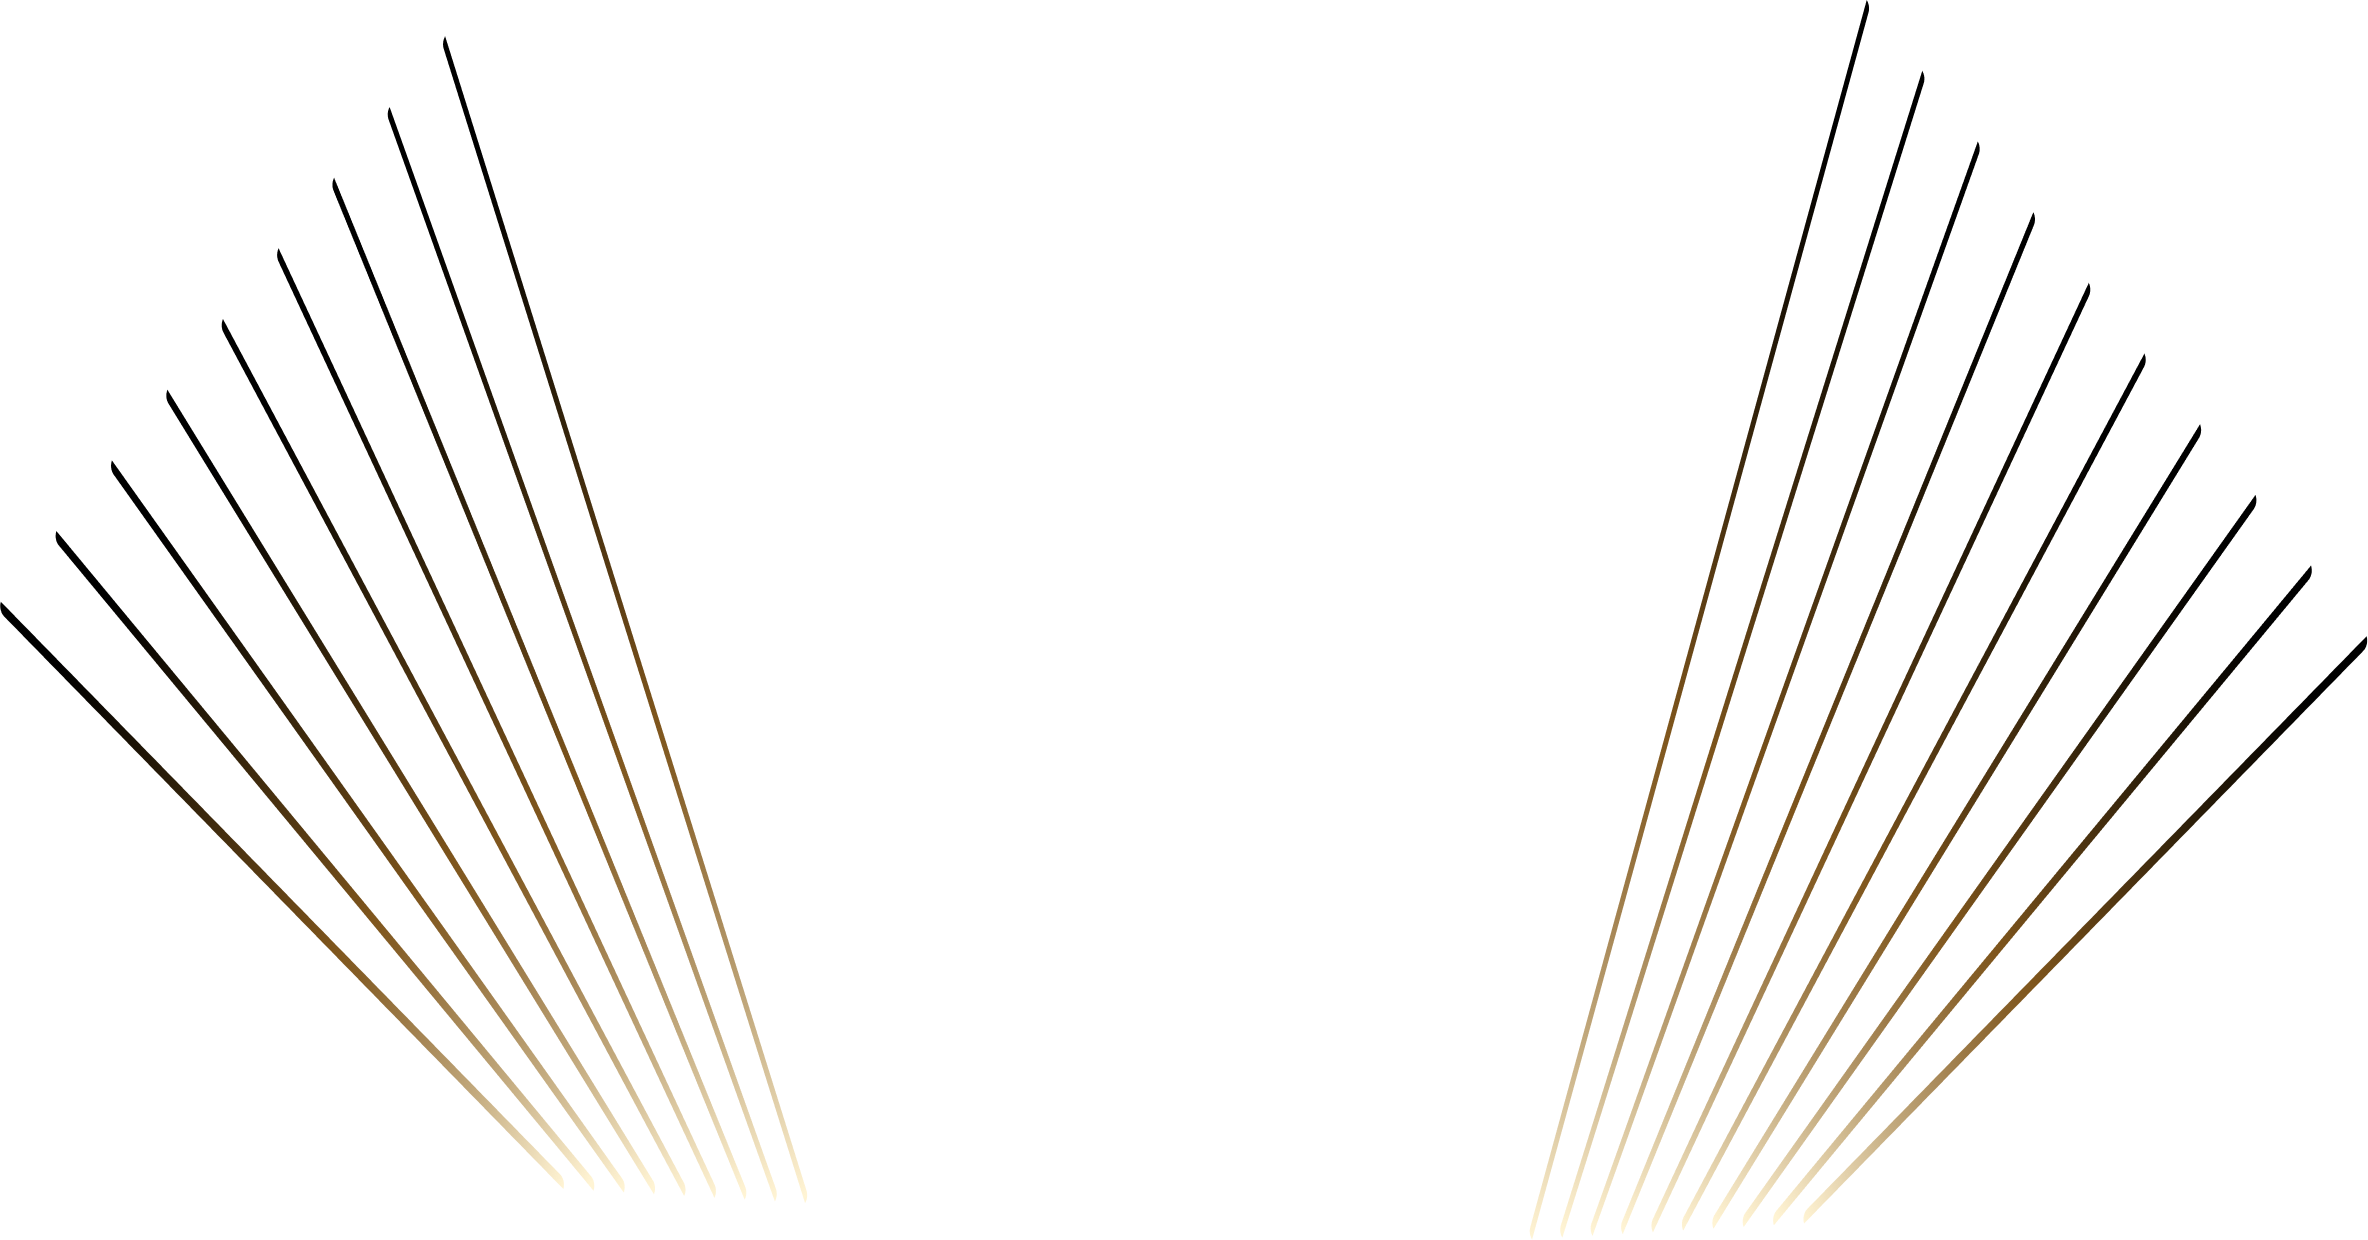
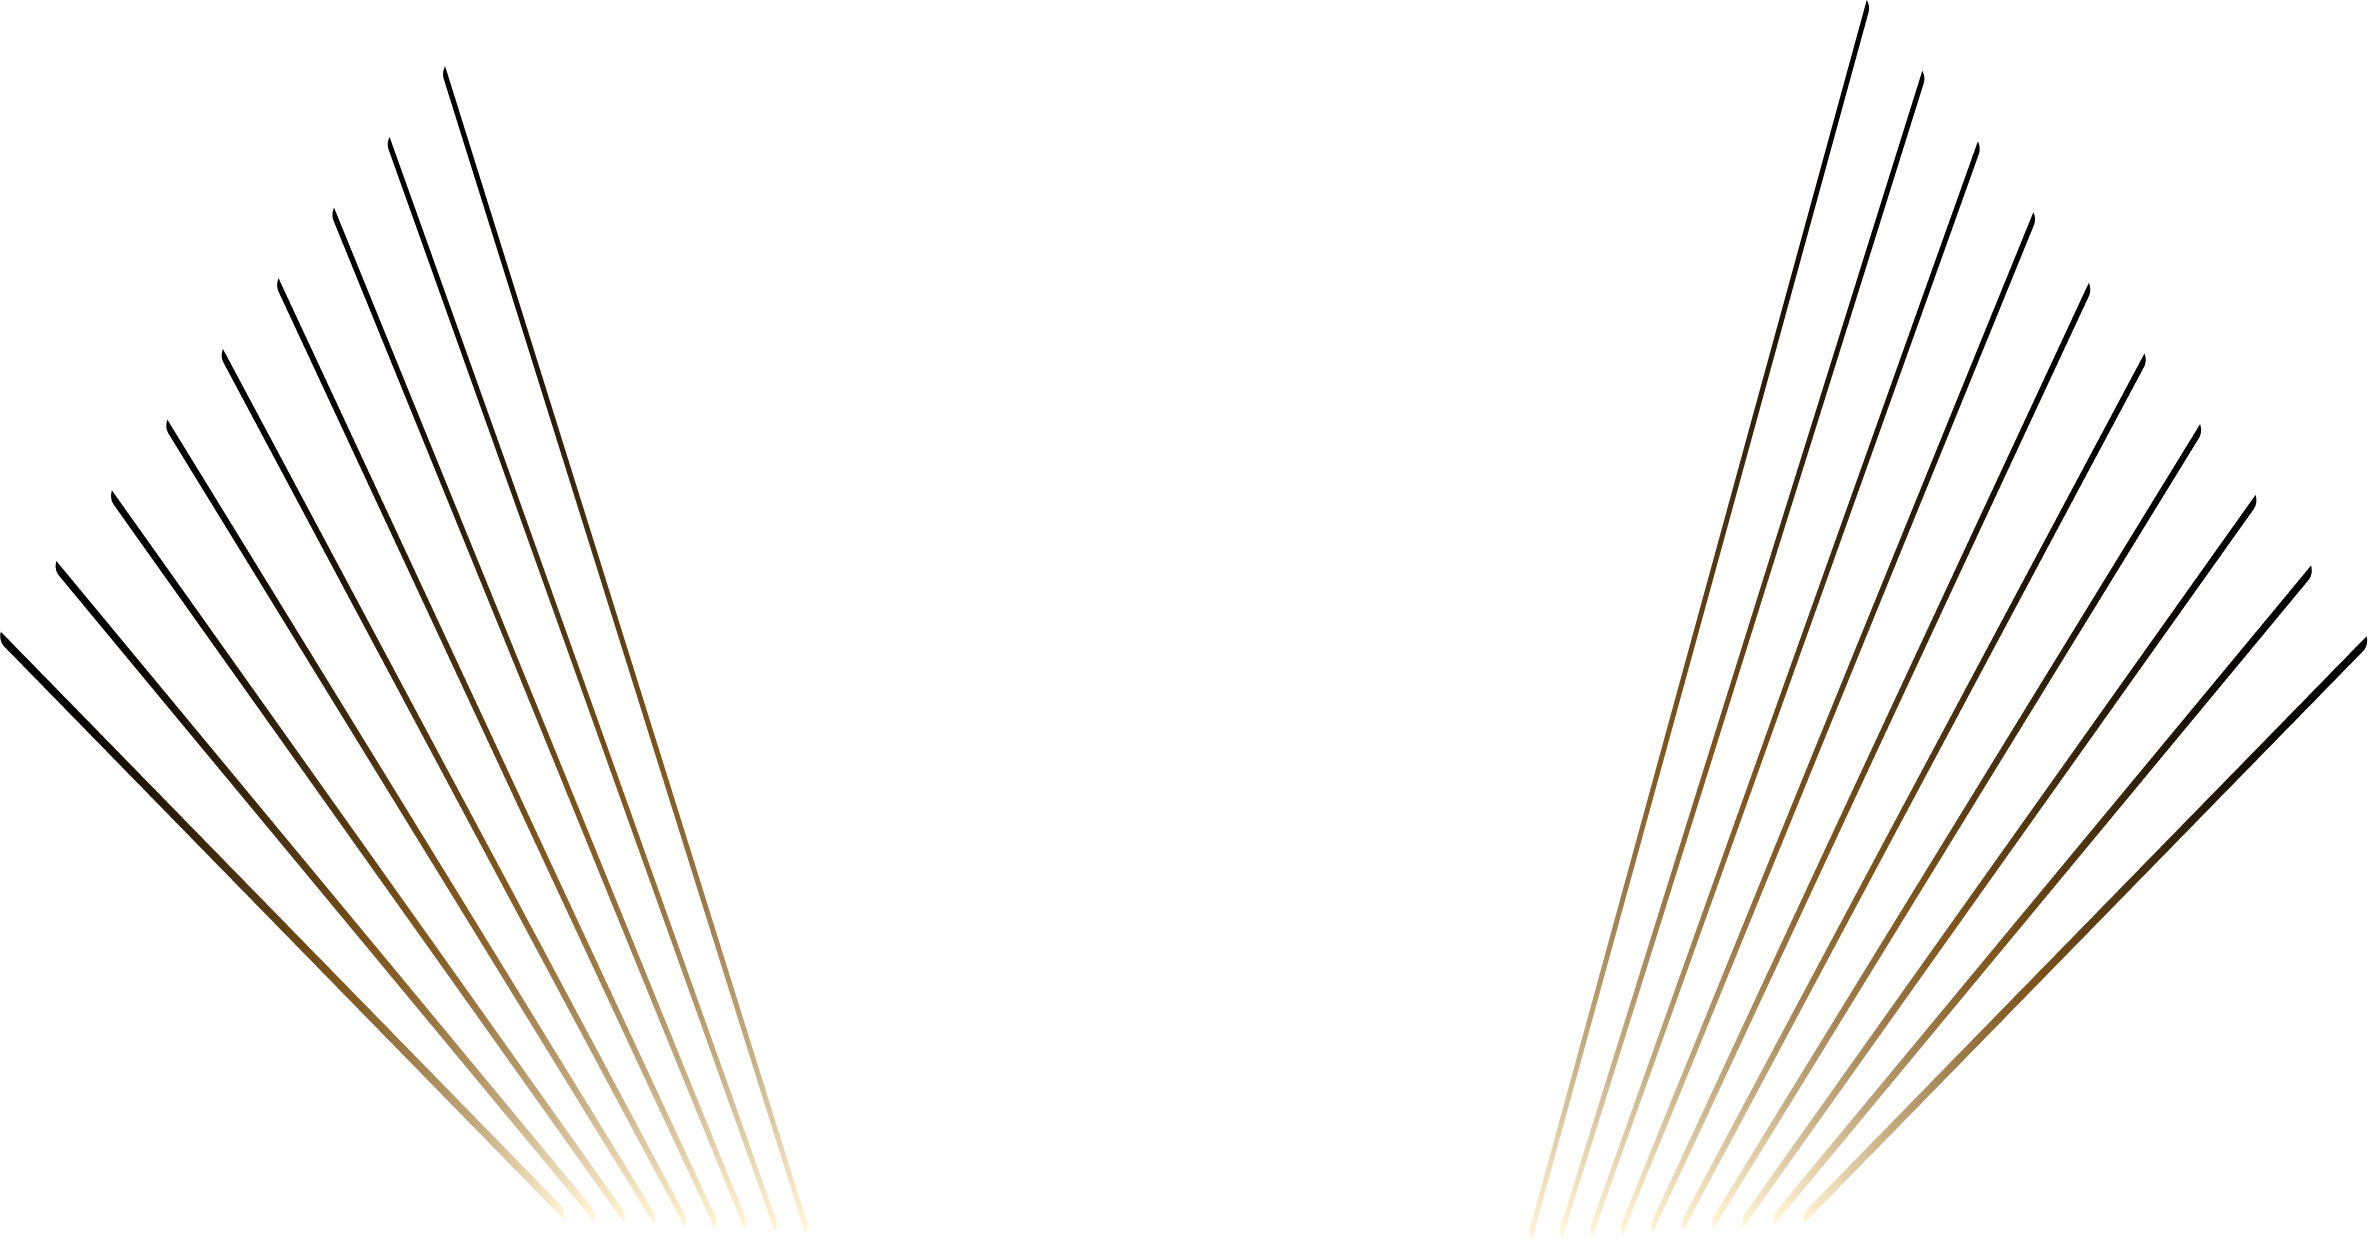
feat : tablet to mobile and optimize particles speed

Changed region(s): [[0.0, 0.0613, 0.3438, 0.9806]]

diff --git a/pages/celebrate.scss b/pages/celebrate.scss
@@ -22,13 +22,12 @@
     margin-left: 50%;
   }
   @media screen and (max-width: 1199.98px) {
-    width: calc(100% + 250px);
+    width: calc(100% + 100px);
+    bottom: -30vw;
   }
-  @media screen and (max-width: 1023.98px) {
-    width: calc(100% + 400px);
-  }
-  @media screen and (max-width: 991.98px) {
-    width: calc(100% + 400px);
+  @media screen and (max-width: 399.98px) {
+    width: calc(100% + 150px);
+    bottom: -37vw;
   }
 }
 
@@ -52,6 +51,12 @@
   @media screen and (max-width: 991.98px) {
     width: calc(100% + 60px + 32px);
   }
+  @media screen and (max-width: 767.98px) {
+    width: calc(100% + 100px + 32px);
+  }
+  @media screen and (max-width: 479.98px) {
+    width: calc(100% + 135px + 32px);
+  }
 }
 
 .hero-background .lamp-pillar-front {
@@ -71,6 +76,37 @@
   @media screen and (max-width: 1199.98px) {
     width: calc(80%);
   }
+  @media screen and (max-width: 767.98px) {
+    width: calc(75%);
+    bottom: 17vw;
+    animation: lampPillarFrontAnimationMobile 1s ease-in forwards;
+  }
+  &.lamp-pillar-front--dekstop{
+    @media screen and (max-width: 479.98px) {
+      display: none;
+    }
+  }
+  &.lamp-pillar-front--mobile{
+    display: none;
+    @media screen and (max-width: 479.98px) {
+      display: block;
+      width: 90%;
+      bottom: 17vw;
+      animation: lampPillarFrontAnimationMobile 1s ease-in forwards;
+    }
+    @media screen and (max-width: 399.98px) {
+      display: block;
+      width: 100%;
+      bottom: 17vw;
+      animation: lampPillarFrontAnimationMobile 1s ease-in forwards;
+    }
+    @media screen and (max-width: 349.98px) {
+      display: block;
+      width: 95%;
+      bottom: 17vw;
+      animation: lampPillarFrontAnimationMobile 1s ease-in forwards;
+    }
+  }
 }
 
 .hero-background .lamp-pillar-behind {
@@ -89,7 +125,14 @@
   }
   @media screen and (max-width: 1199.98px) {
     width: calc(100%);
-    // width: calc(100% + 200px);
+  }
+  @media screen and (max-width: 767.98px) {
+    width: calc(100% + 250px);
+    bottom: 17.5vw;
+    animation: lampPillarBehindAnimationMobile 1s ease-in forwards;
+  }
+  @media screen and (max-width: 639.98px) {
+    width: calc(100% + 200px);
   }
 }
 
@@ -114,6 +157,12 @@
     width: calc(100% + 60px);
     bottom: 0;
     animation: leafPillarAnimationTablet 1s ease-in forwards;
+  }
+  @media screen and (max-width: 767.98px) {
+    width: calc(100% + 100px);
+  }
+  @media screen and (max-width: 479.98px) {
+    width: calc(100% + 135px);
   }
 }
 
@@ -150,6 +199,16 @@
     bottom: 133px;
   }
 }
+@keyframes lampPillarFrontAnimationMobile {
+  0% {
+    opacity: 0;
+    bottom: -100%;
+  }
+  100% {
+    opacity: 1;
+    bottom: 17vw;
+  }
+}
 @keyframes lampPillarBehindAnimation {
   0% {
     opacity: 0;
@@ -158,6 +217,16 @@
   100% {
     opacity: 1;
     bottom: 135px;
+  }
+}
+@keyframes lampPillarBehindAnimationMobile {
+  0% {
+    opacity: 0;
+    bottom: -100%;
+  }
+  100% {
+    opacity: 1;
+    bottom: 17.5vw;
   }
 }
 @keyframes leafPillarAnimationDekstop {

diff --git a/components/celebrate/celebrate.style.js b/components/celebrate/celebrate.style.js
@@ -25,6 +25,18 @@ export const CelebrateSection = styled.section(() => ({
         height: '430px',
         // background: 'linear-gradient(to bottom, rgba(48, 50, 18, 0), rgba(15, 17, 7, 0.703125) 53.6458%, #091D11)',
         background: `linear-gradient(180deg, rgba(48, 50, 18, 0.00) 7.39%, rgba(15, 17, 7, 0.70) 55.02%, #091D11 96.17%)`,
+        '@media (max-width: 767.98px)' : {
+            height: '400px',
+        },
+        '@media (max-width: 639.98px)' : {
+            height: '350px',
+        },
+        '@media (max-width: 575.98px)' : {
+            height: '300px',
+        },
+        '@media (max-width: 479.98px)' : {
+            height: '248px',
+        },
     },
 }))
 
@@ -209,6 +221,21 @@ export const CelebrateContent = styled.div(()=>({
     '@media (max-width: 799.98px)' : {
         padding: '56px 0 430px',
     },
+    '@media (max-width: 767.98px)' : {
+        padding: '56px 0 460px',
+    },
+    '@media (max-width: 575.98px)' : {
+        padding: '56px 0 400px',
+    },
+    '@media (max-width: 479.98px)' : {
+        padding: '56px 0 340px',
+    },
+    '@media (max-width: 399.98px)' : {
+        padding: '56px 0 333px',
+    },
+    '@media (max-width: 349.98px)' : {
+        padding: '56px 0 300px',
+    },
     '& .container' : {
         paddingRight: '15px',
         paddingLeft: '15px',
@@ -258,6 +285,10 @@ export const CelebrateContent = styled.div(()=>({
             fontWeight: '500',
             lineHeight: '24px',
             color: '#F99E26',
+            '@media (max-width: 575.98px)' : {
+                fontSize: '16px',
+                lineHeight: '22px',
+            },
         },
         '& .preview-content-title' : {
             fontSize: '64px',
@@ -269,6 +300,16 @@ export const CelebrateContent = styled.div(()=>({
             WebkitBackgroundClip: 'text',
             WebkitTextFillColor: 'transparent',
             maxWidth: '532px',
+            '@media (max-width: 575.98px)' : {
+                fontSize: '36px',
+                maxWidth: '375px',
+                lineHeight: '40px',
+            },
+            '@media (max-width: 399.98px)' : {
+                fontSize: '36px',
+                maxWidth: '340px',
+                lineHeight: '40px',
+            },
         },
         '& .preview-content-subtitle' : {
             fontSize: '18px',
@@ -277,6 +318,10 @@ export const CelebrateContent = styled.div(()=>({
             lineHeight: '24px',
             color: '#FFF',
             maxWidth: '426px',
+            '@media (max-width: 575.98px)' : {
+                fontSize: '16px',
+                lineHeight: '26px',
+            },
         },
     },
     '& .preview-heading': {

diff --git a/components/celebrate/index.js b/components/celebrate/index.js
@@ -81,13 +81,22 @@ function Celebrate() {
             />
           )}
           {showLampPillarFront && (
-            <img
-                className="lamp-pillar-front"
-                src={'/assets/images/lamp-pillar-front.png'}
-                alt='Lamp Pillar Front'
-                width={988}
-                height={643}                    
-            />
+            <>
+              <img
+                  className="lamp-pillar-front lamp-pillar-front--dekstop"
+                  src={'/assets/images/lamp-pillar-front.png'}
+                  alt='Lamp Pillar Front'
+                  width={988}
+                  height={643}                    
+              />
+              <img
+                  className="lamp-pillar-front lamp-pillar-front--mobile"
+                  src={'/assets/images/lamp-pillar-front-mobile.png'}
+                  alt='Lamp Pillar Front'
+                  width={366.3}
+                  height={238.7}                    
+              />
+            </>
           )}
           {showLampPillarBehind && (
             <img
